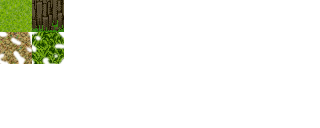
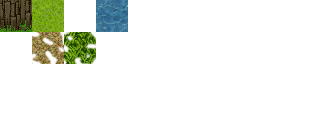
Stuff

Changed region(s): [[0.0, 0.0, 0.4062, 0.5]]

diff --git a/GameLibrary/Factory/ChunkFactory.cs b/GameLibrary/Factory/ChunkFactory.cs
@@ -51,21 +51,21 @@ namespace GameLibrary.Factory
             return null;
         }
 
-        public Chunk generateChunk(Chunk _Chunk)
+        public Chunk generateChunk(Chunk _Chunk, List<Enum> _Layer)
         {
             switch (_Chunk.ChunkEnum)
             {
                 case ChunkEnum.Grassland:
                     {
-                        return generateChunkGrassland(_Chunk);
+                        return generateChunkGrassland(_Chunk, _Layer);
                     }
                 case ChunkEnum.Snowland:
                     {
-                        return generateChunkSnowland(_Chunk);
+                        return generateChunkSnowland(_Chunk, _Layer);
                     }
                 case ChunkEnum.Lavaland:
                     {
-                        return generateChunkLavaland(_Chunk);
+                        return generateChunkLavaland(_Chunk, _Layer);
                     }
             }
             return null;
@@ -260,10 +260,11 @@ namespace GameLibrary.Factory
             return var_Result;
         }
 
-        private Chunk generateChunkGrassland(Chunk _Chunk)
+        private Chunk generateChunkGrassland(Chunk _Chunk, List<Enum> _Layer)
         {
             if (Configuration.Configuration.isHost || Configuration.Configuration.isSinglePlayer)
             {
+                generateSecondLayer(_Chunk, _Layer);
             }
             else
             {
@@ -272,10 +273,11 @@ namespace GameLibrary.Factory
             return _Chunk;
         }
 
-        private Chunk generateChunkSnowland(Chunk _Chunk)
+        private Chunk generateChunkSnowland(Chunk _Chunk, List<Enum> _Layer)
         {
             if (Configuration.Configuration.isHost || Configuration.Configuration.isSinglePlayer)
             {
+                generateSecondLayer(_Chunk, _Layer);
             }
             else
             {
@@ -284,10 +286,11 @@ namespace GameLibrary.Factory
             return _Chunk;
         }
 
-        private Chunk generateChunkLavaland(Chunk _Chunk)
+        private Chunk generateChunkLavaland(Chunk _Chunk, List<Enum> _Layer)
         {
             if (Configuration.Configuration.isHost || Configuration.Configuration.isSinglePlayer)
             {
+                generateSecondLayer(_Chunk, _Layer);
             }
             else
             {

diff --git a/GameLibrary/Map/Region/Region.cs b/GameLibrary/Map/Region/Region.cs
@@ -13,6 +13,7 @@ using GameLibrary.Connection.Message;
 using GameLibrary.Connection;
 using GameLibrary.Enums;
 using GameLibrary.Map.Chunk.Decorator;
+using GameLibrary.Factory;
 #endregion
 
 #region Using Statements Class Specific
@@ -99,9 +100,13 @@ namespace GameLibrary.Map.Region
                         Block.Block var_Block = this.getBlockAtCoordinate(new Vector3(this.Position.X + x * Block.Block.BlockSize, this.Position.Y + y * Block.Block.BlockSize, 0));
                         if (var_Block != null)
                         {
-                            if (var_HeigthMap[x, y] > 40)
+                            if (var_HeigthMap[x, y] < 20)
                             {
-                                var_Block.setFirstLayer(BlockEnum.Ground2);
+                                var_Block.setFirstLayer(BlockEnum.Water);
+                            }
+                            else if (var_HeigthMap[x, y] > 40)
+                            {
+                                var_Block.setFirstLayer(BlockEnum.Wall);
                             }
                         }
 
@@ -110,6 +115,16 @@ namespace GameLibrary.Map.Region
                 }
                 Console.WriteLine(test / 10000);
             //}
+
+            foreach(Chunk.Chunk var_Chunk in this.chunks)
+            {
+                if (var_Chunk != null)
+                {
+                    ChunkFactory.chunkFactory.generateChunk(var_Chunk, RegionDependency.regionDependency.getLayer(this.RegionEnum));
+                    Decorator.decorator.decorateChunk(var_Chunk);
+                    this.loadAllObjectsFromChunkToQuadTree(var_Chunk);
+                }
+            }
         }
 
         public Dimension.Dimension getParent()

diff --git a/GameLibrary/Map/Chunk/Decorator/Decorator.cs b/GameLibrary/Map/Chunk/Decorator/Decorator.cs
@@ -26,9 +26,9 @@ namespace GameLibrary.Map.Chunk.Decorator
             this.decoratorItems = new Dictionary<RegionEnum, List<DecoratorItem>>();
 
             List<DecoratorItem> var_DecoratorItems_Grassland = new List<DecoratorItem>();
-            //var_DecoratorItems_Grassland.Add(new EnvironmentDecoratorItem(EnvironmentEnum.Tree_Normal_1, false, 1, 10, 0, RegionEnum.Grassland, true));
-            //var_DecoratorItems_Grassland.Add(new EnvironmentDecoratorItem(EnvironmentEnum.Flower_1, true, 30, 50, 0, RegionEnum.Grassland, true));
-            //var_DecoratorItems_Grassland.Add(new NpcDecoratorItem(RaceEnum.Human, 1, 2, 0, RegionEnum.Grassland, true));
+            var_DecoratorItems_Grassland.Add(new EnvironmentDecoratorItem(EnvironmentEnum.Tree_Normal_1, false, 1, 10, 0, RegionEnum.Grassland, true));
+            var_DecoratorItems_Grassland.Add(new EnvironmentDecoratorItem(EnvironmentEnum.Flower_1, true, 30, 50, 0, RegionEnum.Grassland, true));
+            var_DecoratorItems_Grassland.Add(new NpcDecoratorItem(RaceEnum.Human, 1, 2, 0, RegionEnum.Grassland, true));
             //var_DecoratorItems_Grassland.Add(new ItemDecoratorItem(ItemEnum.GoldCoin, 1, 2, 0, RegionEnum.Grassland));
             //var_DecoratorItems_Grassland.Add(new EquipmentDecoratorItem(ItemEnum.Armor, 1, 2, 0, RegionEnum.Grassland));
             //var_DecoratorItems_Grassland.Add(new EquipmentDecoratorItem(ItemEnum.Weapon, 1, 2, 0, RegionEnum.Grassland));

diff --git a/GameLibrary/Map/Dimension/Dimension.cs b/GameLibrary/Map/Dimension/Dimension.cs
@@ -758,7 +758,7 @@ namespace GameLibrary.Map.Dimension
         {
             int var_MapSize = Configuration.Configuration.maxMapSize;
 
-            _Position = _Position / Block.Block.BlockSize;
+            _Position = (_Position / Block.Block.BlockSize);// % var_MapSize;
 
             float var_X = _Position.X;
             if (_Position.X < 0)
@@ -773,8 +773,6 @@ namespace GameLibrary.Map.Dimension
             }
 
             _Position = new Vector3(var_X, var_Y, 0);
-
-            //TODO: Flip Methode für jeweils X negativ und Y negativ
 
             return Utility.Algorithm.Noise.PerlinNoise.getHeightMap(_Position, _Size, Configuration.Configuration.maxMapSize, Configuration.Configuration.seed);
         }

diff --git a/GameLibrary/Factory/RegionFactory.cs b/GameLibrary/Factory/RegionFactory.cs
@@ -147,10 +147,6 @@ namespace GameLibrary.Factory
             if (var_Chunk != null)
             {
                 addChunkToRegion(_Region, _PosX, _PosY, var_Chunk);
-                //ChunkFactory.chunkFactory.generateChunk(var_Chunk);
-                Decorator.decorator.decorateChunk(var_Chunk);
-
-                _Region.loadAllObjectsFromChunkToQuadTree(var_Chunk);
             }  
 
             return var_Chunk;

diff --git a/GameLibrary/Enums/BlockEnum.cs b/GameLibrary/Enums/BlockEnum.cs
@@ -18,8 +18,10 @@ namespace GameLibrary.Enums
     public enum BlockEnum
     {
         Nothing,
+        Wall,
         Ground1,
         Ground2,
+        Water,
         Gras,
         Stone,
         Dirt,
@@ -27,7 +29,6 @@ namespace GameLibrary.Enums
         Ice,
         Desert,
         Forest,
-        Wall,
         Hill1_Center,
         Hill1_Corner1,
         Hill1_Corner2,

diff --git a/GameLibrary/Map/Block/Block.cs b/GameLibrary/Map/Block/Block.cs
@@ -136,7 +136,7 @@ namespace GameLibrary.Map.Block
             this.layer[0] = (BlockEnum)_Enum;
             if (_Enum is BlockEnum)
             {
-                if ((BlockEnum)_Enum == BlockEnum.Wall)
+                if ((BlockEnum)_Enum == BlockEnum.Wall || (BlockEnum)_Enum == BlockEnum.Water)
                 {
                     this.isWalkAble = false;
                 }

diff --git a/GameLibrary/Camera/Camera.cs b/GameLibrary/Camera/Camera.cs
@@ -52,7 +52,7 @@ namespace GameLibrary.Camera
         {
             this.target = null;
             this.position = new Vector3(0, 0, 0);
-            this.zoom = 0.5f;
+            this.zoom = 1.0f;
             this.viewPort = _ViewPort;
             KeyboardManager.keyboardFocus.Add(this);
         }
